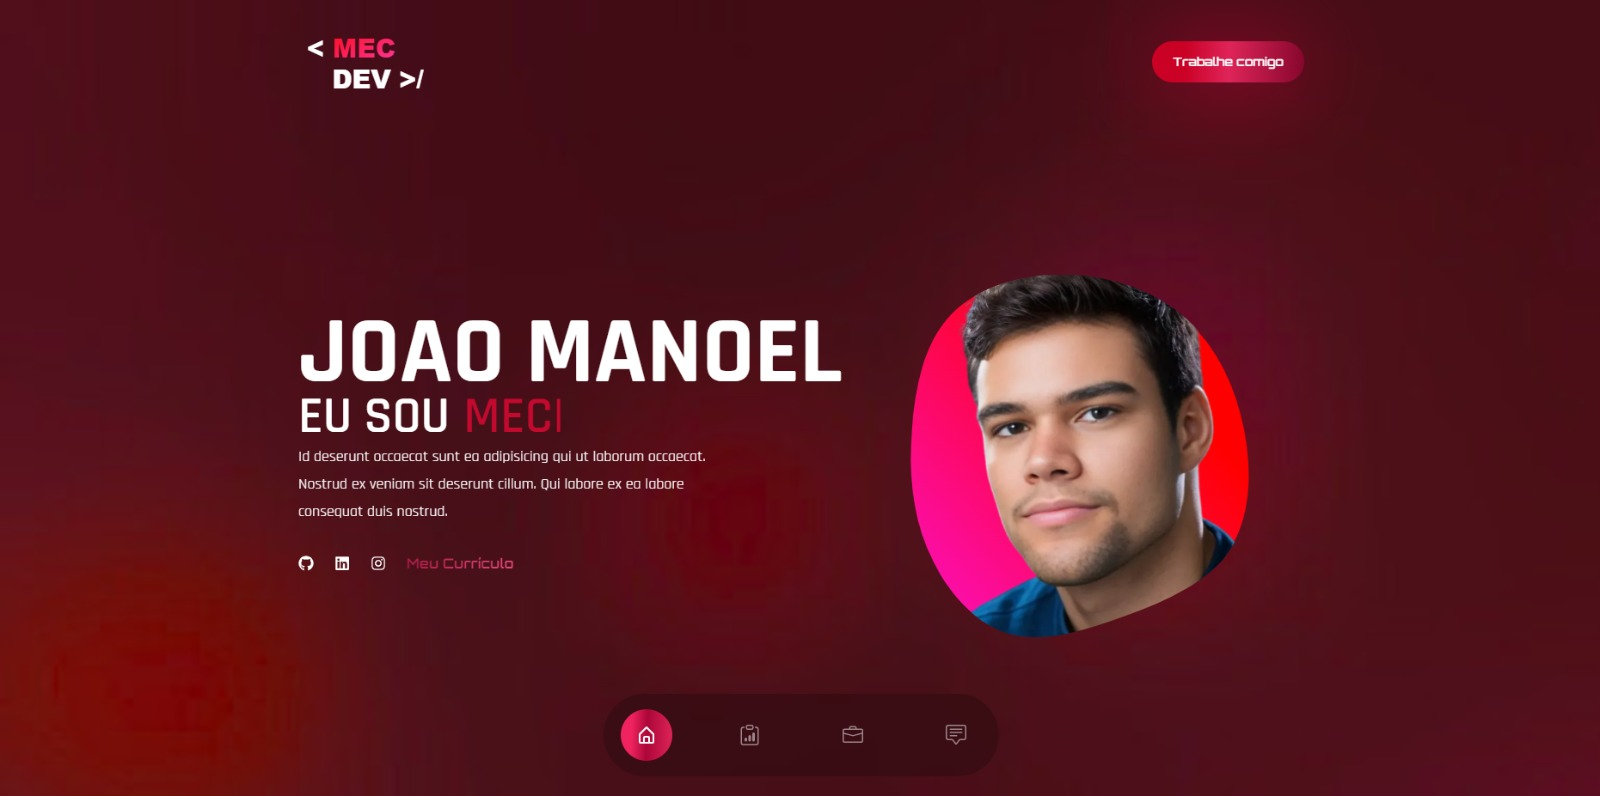
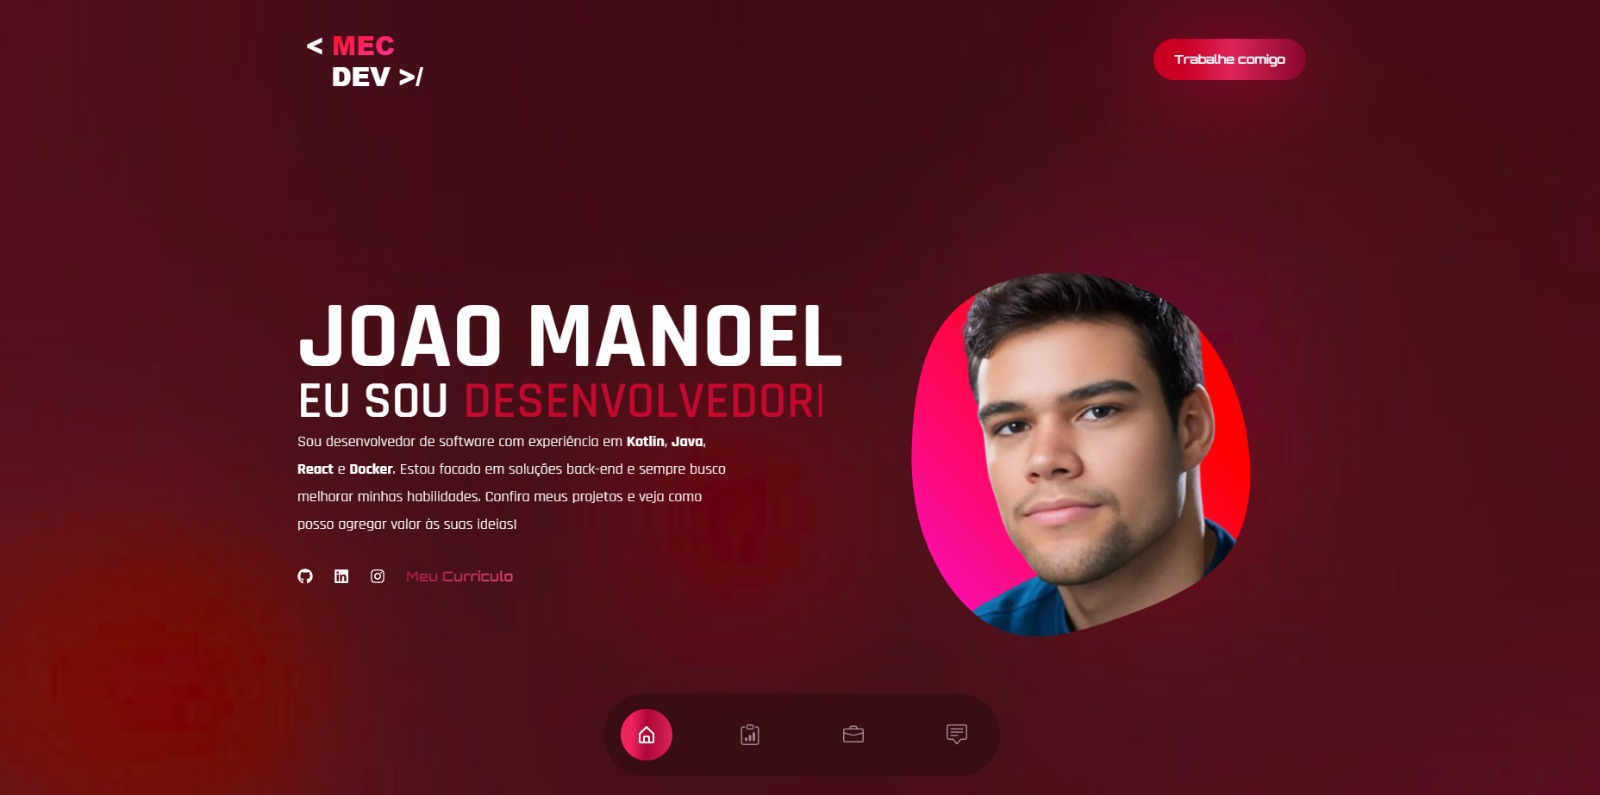
tirando lorems e update preview

diff --git a/src/components/Experiencia.js b/src/components/Experiencia.js
@@ -8,12 +8,12 @@ const services = [
   {
     name: 'Estagiário EDU3',
     description:
-    'Est eiusmod sint dolore sit fugiat laboris incididunt fugiat id Est eiusmod sint dolore sit fugiat laboris incididunt fugiat id Est eiusmod sint dolore sit fugiat laboris incididunt fugiat id',
+    'Na EDU3, uma empresa dedicada ao desenvolvimento de soluções de software para gestão de sistemas escolares. Meu papel envolve a criação e melhoria de funcionalidades que atendem às necessidades de instituições de ensino. Utilizo principalmente JAVA para o desenvolvimento back-end, mas tenho participação em todas as frentes de desenvolvimento.',
   },
   {
     name: 'Projetos Independentes',
     description:
-    'Est eiusmod sint dolore sit fugiat laboris incididunt fugiat id',
+    'Trabalhei com tecnologias como KOTLIN, JAVA e REACT, aplicando boas práticas de programação e princípios de design de software. Estou sempre em busca de novos desafios que me permitam expandir meu conhecimento e contribuir de forma significativa para projetos inovadores.',
   },
 ];
 
@@ -47,7 +47,7 @@ const Experiencia = () => {
               {services.map((service, index) => {
                 const {name, description} = service;
                 return (
-                  <div className='border-b border-white/20 h-[146px] mb-[38px]' key={index}>
+                  <div className='border-b border-white/20 h-[200px] mb-[38px]' key={index}>
                     <div className='max-w-[575px]'>
                       <h4 className='text-[20px] tracking-wider font-primary
                       font-semibold mb-6'>

diff --git a/src/components/Banner.js b/src/components/Banner.js
@@ -49,8 +49,8 @@ const Banner = () => {
               viewport={{once: false, amount: 0.7}}
               className='mb-8 max-w-lg mx-auto lg:mx-0' 
             >
-              Id deserunt occaecat sunt ea adipisicing qui ut laborum occaecat. Nostrud ex veniam sit deserunt cillum.
-              Qui labore ex ea labore consequat duis nostrud. 
+              Sou desenvolvedor de software com experiência em <b>Kotlin</b>, <b>Java</b>, <b>React</b> e <b>Docker</b>. Estou focado em soluções back-end e sempre busco melhorar minhas habilidades.
+              Confira meus projetos e veja como posso agregar valor às suas ideias!
             </motion.p >
             <motion.div 
               variants={fadeIn('up', 0.6)} 

diff --git a/src/components/Projetos.js b/src/components/Projetos.js
@@ -26,8 +26,8 @@ const Projetos = () => {
                 Recentes
               </h2>
               <p className='max-w-sm mb-16'> 
-                Mollit minim culpa labore ad id. Nostrud magna dolore Lorem adipisicing. 
-                Lorem adipisicing. Ex ipsum esse dolore qui ex consectetur.
+                Aqui estão alguns dos meus projetos recentes que gostaria que você explorasse.
+                Para ver mais, basta acessar meu GitHub.
               </p>
               <button 
               className='btn btn-sm'
